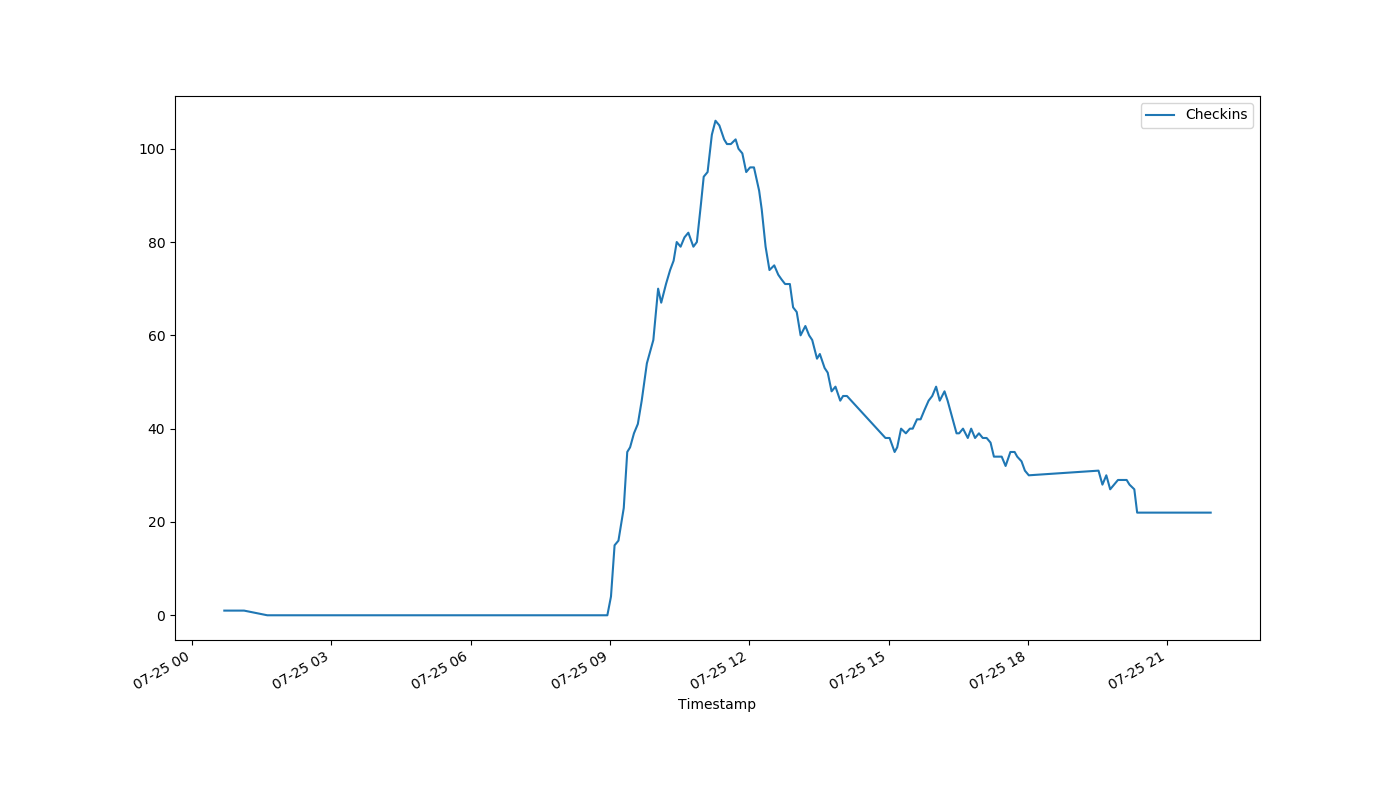
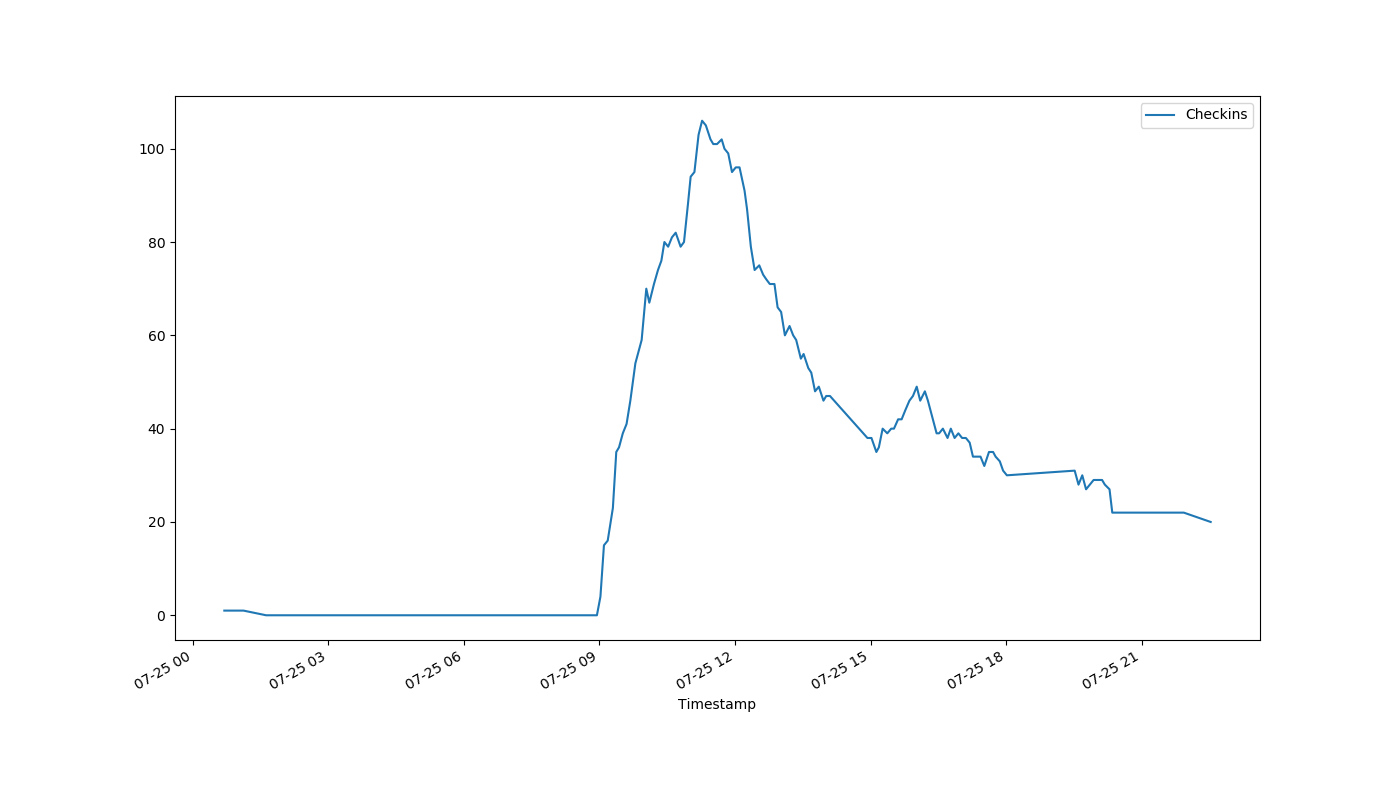
auto-Jul-25-22:33:43

diff --git a/index.html b/index.html
@@ -1,1 +1,1 @@
-<!DOCTYPE html><html><head><meta http-equiv="refresh" content="30"><link rel='stylesheet' href='holmcurrent.css'></head><body><p id='count'>-1</p><div id='graph-wrap'><img id='graph' src='holmgraph-Jul-25.png'></div><p id='updated'>Last updated 22:31:12 / 22:31:11</p></body></html>
+<!DOCTYPE html><html><head><meta http-equiv="refresh" content="30"><link rel='stylesheet' href='holmcurrent.css'></head><body><p id='count'>20</p><div id='graph-wrap'><img id='graph' src='holmgraph-Jul-25.png'></div><p id='updated'>Last updated 22:32:12 / 22:31:41</p></body></html>
